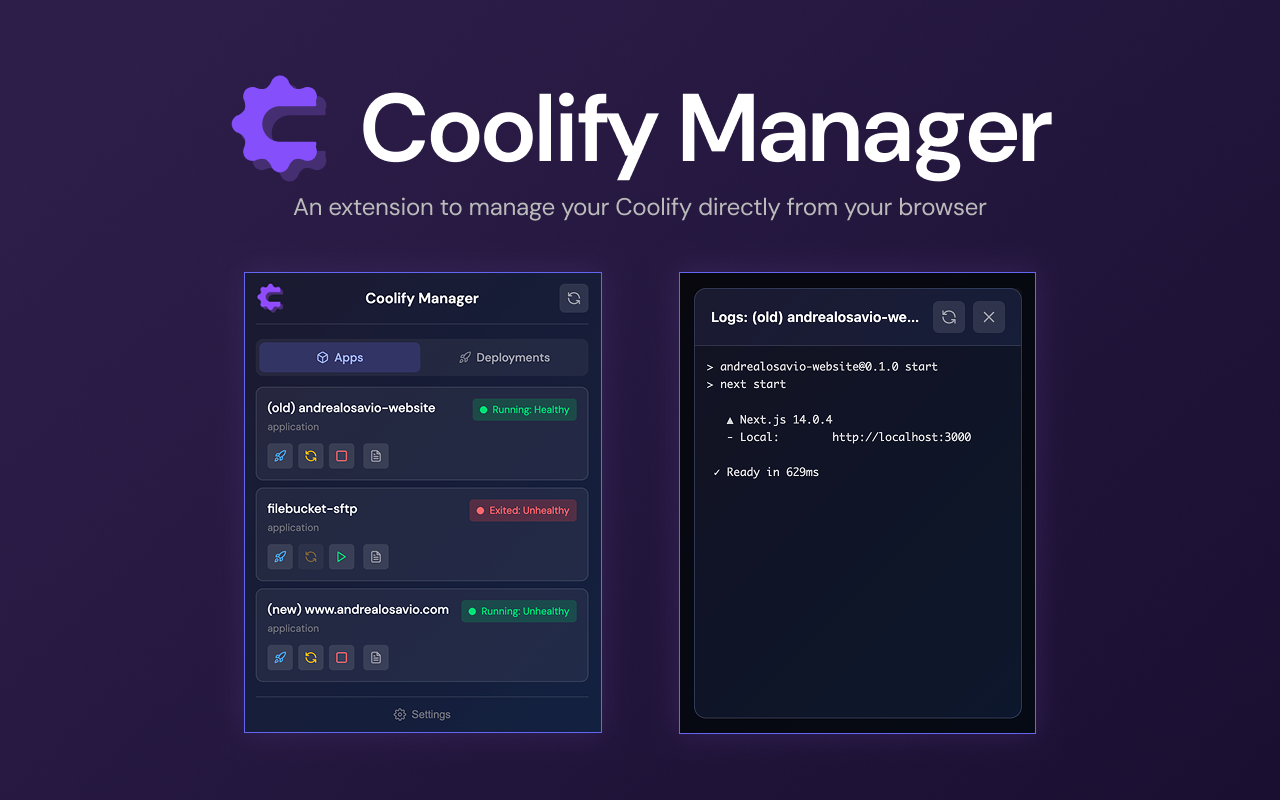
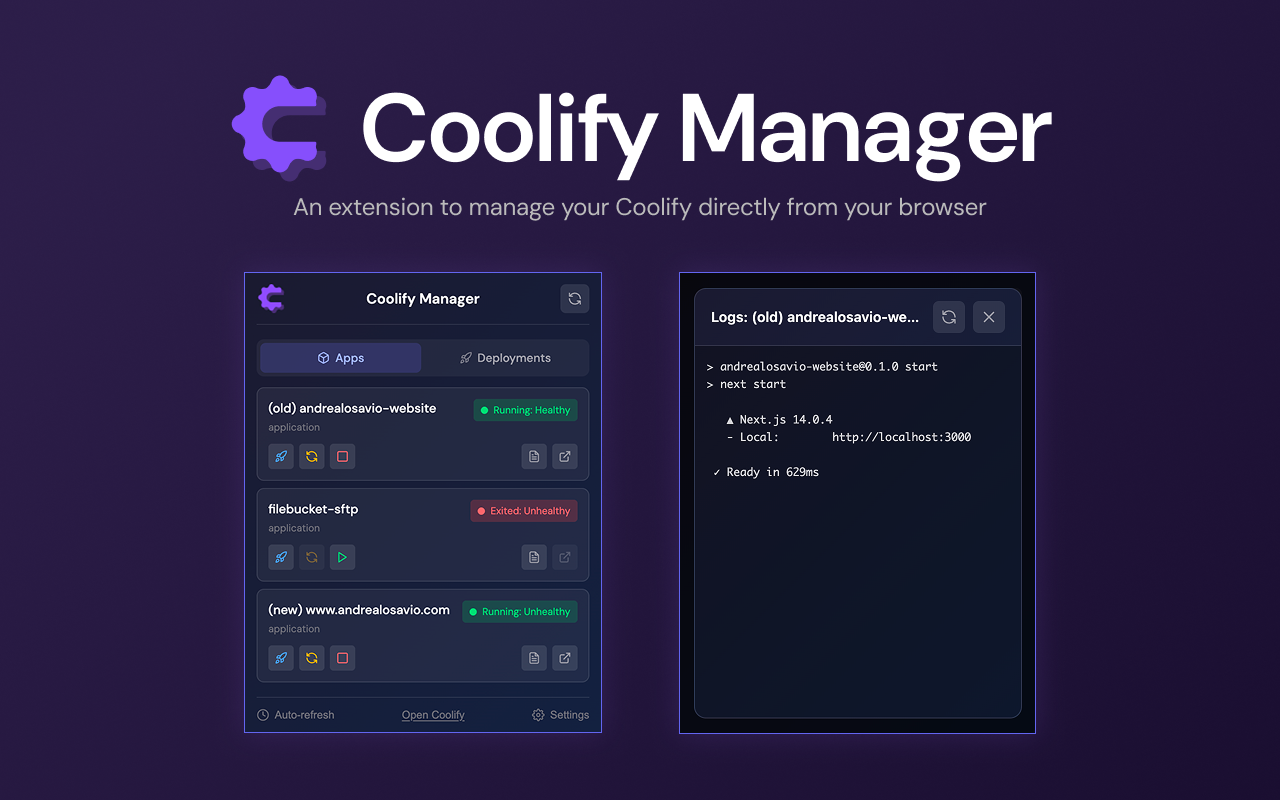
feat: add external link to application feat: add 'open coolify' link to footer feat: add autorefresh every 10s to footer

diff --git a/popup/popup.js b/popup/popup.js
@@ -31,6 +31,11 @@ const icons = {
     <line x1="18" y1="6" x2="6" y2="18"/>
     <line x1="6" y1="6" x2="18" y2="18"/>
   </svg>`,
+  externalLink: `<svg class="icon" width="14" height="14" viewBox="0 0 24 24" fill="none" stroke="currentColor" stroke-width="2" stroke-linecap="round" stroke-linejoin="round">
+    <path d="M18 13v6a2 2 0 01-2 2H5a2 2 0 01-2-2V8a2 2 0 012-2h6"/>
+    <polyline points="15 3 21 3 21 9"/>
+    <line x1="10" y1="14" x2="21" y2="3"/>
+  </svg>`,
 };
 
 const states = {
@@ -49,7 +54,9 @@ const elements = {
   refreshBtn: document.getElementById("refresh-btn"),
   openOptionsBtn: document.getElementById("open-options"),
   retryBtn: document.getElementById("retry-btn"),
+  autoRefreshBtn: document.getElementById("auto-refresh-btn"),
   settingsBtn: document.getElementById("settings-btn"),
+  openCoolifyBtn: document.getElementById("open-coolify-btn"),
   errorMessage: document.getElementById("error-message"),
   loadingText: document.getElementById("loading-text"),
   applications: document.getElementById("applications"),
@@ -67,6 +74,9 @@ const elements = {
 
 let currentLogsApp = null;
 let currentTab = "apps";
+let serverUrl = "";
+let autoRefreshInterval = null;
+let autoRefreshEnabled = false;
 
 function showState(stateName) {
   Object.entries(states).forEach(([name, element]) => {
@@ -84,9 +94,40 @@ function openOptions() {
   chrome.runtime.openOptionsPage();
 }
 
+function openCoolify() {
+  if (!serverUrl) return;
+  chrome.tabs.create({ url: serverUrl });
+}
+
 async function isConfigured() {
   const config = await chrome.storage.sync.get(["serverUrl", "apiToken"]);
+  if (config.serverUrl) {
+    serverUrl = config.serverUrl.replace(/\/$/, "");
+  }
   return !!(config.serverUrl && config.apiToken);
+}
+
+function openAppSite(fqdn) {
+  if (!fqdn) return;
+  const firstUrl = fqdn.split(",")[0].trim();
+  if (!firstUrl) return;
+  const url = firstUrl.startsWith("http") ? firstUrl : `https://${firstUrl}`;
+  chrome.tabs.create({ url });
+}
+
+function toggleAutoRefresh() {
+  autoRefreshEnabled = !autoRefreshEnabled;
+
+  if (autoRefreshEnabled) {
+    elements.autoRefreshBtn.classList.add("active");
+    autoRefreshInterval = setInterval(refreshCurrentTab, 10000);
+  } else {
+    elements.autoRefreshBtn.classList.remove("active");
+    if (autoRefreshInterval) {
+      clearInterval(autoRefreshInterval);
+      autoRefreshInterval = null;
+    }
+  }
 }
 
 function switchTab(tab) {
@@ -177,12 +218,19 @@ function renderApplications(apps) {
     btn.addEventListener("click", handleAction);
   });
 
-  elements.applications.querySelectorAll(".logs-btn").forEach((btn) => {
+  elements.applications.querySelectorAll(".app-name-link").forEach((link) => {
+    link.addEventListener("click", handleShowAppDetails);
+  });
+
+  elements.applications.querySelectorAll(".open-logs-btn").forEach((btn) => {
     btn.addEventListener("click", handleShowLogs);
   });
 
-  elements.applications.querySelectorAll(".app-name-link").forEach((link) => {
-    link.addEventListener("click", handleShowAppDetails);
+  elements.applications.querySelectorAll(".open-site-btn").forEach((btn) => {
+    btn.addEventListener("click", (e) => {
+      e.stopPropagation();
+      openAppSite(btn.dataset.fqdn);
+    });
   });
 }
 
@@ -208,6 +256,7 @@ function createAppCard(app) {
   const isRunning = status.includes("running");
   const deployLabel = isRunning ? "Redeploy" : "Deploy";
   const displayStatus = formatStatus(status);
+  const hasFqdn = app.fqdn && app.fqdn.trim();
 
   return `
     <div class="app-card" data-uuid="${app.uuid}" data-name="${app.name}">
@@ -222,28 +271,33 @@ function createAppCard(app) {
         </div>
       </div>
       <div class="app-actions">
-        <button class="action-btn deploy" data-action="deploy" data-uuid="${app.uuid}" data-name="${app.name}" title="${deployLabel}">
-          ${icons.rocket}
-        </button>
-        <button class="action-btn restart" data-action="restart" data-uuid="${app.uuid}" data-name="${app.name}" title="Restart" ${!isRunning ? "disabled" : ""}>
-          ${icons.refreshCw}
-        </button>
-        ${
-          isRunning
-            ? `
-          <button class="action-btn stop" data-action="stop" data-uuid="${app.uuid}" data-name="${app.name}" title="Stop">
-            ${icons.square}
+        <div class="actions-left">
+          <button class="action-btn deploy" data-action="deploy" data-uuid="${app.uuid}" data-name="${app.name}" title="${deployLabel}">
+            ${icons.rocket}
           </button>
-        `
-            : `
-          <button class="action-btn start" data-action="start" data-uuid="${app.uuid}" data-name="${app.name}" title="Start">
-            ${icons.play}
+          <button class="action-btn restart" data-action="restart" data-uuid="${app.uuid}" data-name="${app.name}" title="Restart" ${!isRunning ? "disabled" : ""}>
+            ${icons.refreshCw}
           </button>
-        `
-        }
-        <button class="logs-btn" data-uuid="${app.uuid}" data-name="${app.name}" title="View Logs">
-          ${icons.fileText}
-        </button>
+          ${
+            isRunning
+              ? `
+            <button class="action-btn stop" data-action="stop" data-uuid="${app.uuid}" data-name="${app.name}" title="Stop">
+              ${icons.square}
+            </button>
+          `
+              : `
+            <button class="action-btn start" data-action="start" data-uuid="${app.uuid}" data-name="${app.name}" title="Start">
+              ${icons.play}
+            </button>
+          `
+          }
+        </div>
+        <div class="actions-right">
+          <button class="open-logs-btn util-btn" data-uuid="${app.uuid}" data-name="${app.name}" title="View Logs">
+            ${icons.fileText}
+          </button>
+          ${hasFqdn ? `<button class="util-btn open-site-btn" data-fqdn="${escapeHtml(app.fqdn)}" title="Open Website" ${!isRunning ? "disabled" : ""}>${icons.externalLink}</button>` : ""}
+        </div>
       </div>
     </div>
   `;
@@ -658,7 +712,9 @@ async function init() {
   elements.refreshBtn.addEventListener("click", refreshCurrentTab);
   elements.openOptionsBtn.addEventListener("click", openOptions);
   elements.retryBtn.addEventListener("click", refreshCurrentTab);
+  elements.autoRefreshBtn.addEventListener("click", toggleAutoRefresh);
   elements.settingsBtn.addEventListener("click", openOptions);
+  elements.openCoolifyBtn.addEventListener("click", openCoolify);
   elements.logsClose.addEventListener("click", closeLogs);
   elements.logsRefresh.addEventListener("click", refreshLogs);
   elements.detailsClose.addEventListener("click", closeDetails);
@@ -683,8 +739,10 @@ async function init() {
 
   if (await isConfigured()) {
     elements.tabsContainer.classList.remove("hidden");
+    elements.openCoolifyBtn.disabled = !serverUrl;
     loadApplications();
   } else {
+    elements.openCoolifyBtn.disabled = true;
     showState("notConfigured");
   }
 }

diff --git a/popup/popup.html b/popup/popup.html
@@ -44,19 +44,45 @@
       <!-- Tabs Navigation -->
       <div id="tabs-container" class="tabs-container hidden">
         <button class="tab-btn active" data-tab="apps">
-          <svg class="icon" width="14" height="14" viewBox="0 0 24 24" fill="none" stroke="currentColor" stroke-width="2" stroke-linecap="round" stroke-linejoin="round">
-            <path d="M21 16V8a2 2 0 00-1-1.73l-7-4a2 2 0 00-2 0l-7 4A2 2 0 003 8v8a2 2 0 001 1.73l7 4a2 2 0 002 0l7-4A2 2 0 0021 16z"/>
-            <polyline points="3.27 6.96 12 12.01 20.73 6.96"/>
-            <line x1="12" y1="22.08" x2="12" y2="12"/>
+          <svg
+            class="icon"
+            width="14"
+            height="14"
+            viewBox="0 0 24 24"
+            fill="none"
+            stroke="currentColor"
+            stroke-width="2"
+            stroke-linecap="round"
+            stroke-linejoin="round"
+          >
+            <path
+              d="M21 16V8a2 2 0 00-1-1.73l-7-4a2 2 0 00-2 0l-7 4A2 2 0 003 8v8a2 2 0 001 1.73l7 4a2 2 0 002 0l7-4A2 2 0 0021 16z"
+            />
+            <polyline points="3.27 6.96 12 12.01 20.73 6.96" />
+            <line x1="12" y1="22.08" x2="12" y2="12" />
           </svg>
           Apps
         </button>
         <button class="tab-btn" data-tab="deployments">
-          <svg class="icon" width="14" height="14" viewBox="0 0 24 24" fill="none" stroke="currentColor" stroke-width="2" stroke-linecap="round" stroke-linejoin="round">
-            <path d="M4.5 16.5c-1.5 1.26-2 5-2 5s3.74-.5 5-2c.71-.84.7-2.13-.09-2.91a2.18 2.18 0 00-2.91-.09z"/>
-            <path d="M12 15l-3-3a22 22 0 012-3.95A12.88 12.88 0 0122 2c0 2.72-.78 7.5-6 11a22.35 22.35 0 01-4 2z"/>
-            <path d="M9 12H4s.55-3.03 2-4c1.62-1.08 5 0 5 0"/>
-            <path d="M12 15v5s3.03-.55 4-2c1.08-1.62 0-5 0-5"/>
+          <svg
+            class="icon"
+            width="14"
+            height="14"
+            viewBox="0 0 24 24"
+            fill="none"
+            stroke="currentColor"
+            stroke-width="2"
+            stroke-linecap="round"
+            stroke-linejoin="round"
+          >
+            <path
+              d="M4.5 16.5c-1.5 1.26-2 5-2 5s3.74-.5 5-2c.71-.84.7-2.13-.09-2.91a2.18 2.18 0 00-2.91-.09z"
+            />
+            <path
+              d="M12 15l-3-3a22 22 0 012-3.95A12.88 12.88 0 0122 2c0 2.72-.78 7.5-6 11a22.35 22.35 0 01-4 2z"
+            />
+            <path d="M9 12H4s.55-3.03 2-4c1.62-1.08 5 0 5 0" />
+            <path d="M12 15v5s3.03-.55 4-2c1.08-1.62 0-5 0-5" />
           </svg>
           Deployments
         </button>
@@ -155,10 +181,14 @@
               stroke-linecap="round"
               stroke-linejoin="round"
             >
-              <path d="M4.5 16.5c-1.5 1.26-2 5-2 5s3.74-.5 5-2c.71-.84.7-2.13-.09-2.91a2.18 2.18 0 00-2.91-.09z"/>
-              <path d="M12 15l-3-3a22 22 0 012-3.95A12.88 12.88 0 0122 2c0 2.72-.78 7.5-6 11a22.35 22.35 0 01-4 2z"/>
-              <path d="M9 12H4s.55-3.03 2-4c1.62-1.08 5 0 5 0"/>
-              <path d="M12 15v5s3.03-.55 4-2c1.08-1.62 0-5 0-5"/>
+              <path
+                d="M4.5 16.5c-1.5 1.26-2 5-2 5s3.74-.5 5-2c.71-.84.7-2.13-.09-2.91a2.18 2.18 0 00-2.91-.09z"
+              />
+              <path
+                d="M12 15l-3-3a22 22 0 012-3.95A12.88 12.88 0 0122 2c0 2.72-.78 7.5-6 11a22.35 22.35 0 01-4 2z"
+              />
+              <path d="M9 12H4s.55-3.03 2-4c1.62-1.08 5 0 5 0" />
+              <path d="M12 15v5s3.03-.55 4-2c1.08-1.62 0-5 0-5" />
             </svg>
           </div>
           <p>No deployments found</p>
@@ -170,6 +200,33 @@
       </div>
 
       <footer>
+        <button
+          id="auto-refresh-btn"
+          class="btn-link"
+          title="Auto-refresh every 10s"
+        >
+          <svg
+            width="14"
+            height="14"
+            viewBox="0 0 24 24"
+            fill="none"
+            stroke="currentColor"
+            stroke-width="2"
+            stroke-linecap="round"
+            stroke-linejoin="round"
+          >
+            <circle cx="12" cy="12" r="10" />
+            <polyline points="12 6 12 12 16 14" />
+          </svg>
+          Auto-refresh
+        </button>
+        <button
+          id="open-coolify-btn"
+          class="btn-link"
+          title="Open Coolify Dashboard"
+        >
+          Open Coolify
+        </button>
         <button id="settings-btn" class="btn-link">
           <svg
             width="14"

diff --git a/popup/popup.css b/popup/popup.css
@@ -354,6 +354,13 @@ h1 {
 
 .app-actions {
   display: flex;
+  justify-content: space-between;
+  gap: 6px;
+}
+
+.actions-left,
+.actions-right {
+  display: flex;
   gap: 6px;
 }
 
@@ -601,7 +608,26 @@ footer {
   padding-top: 12px;
   border-top: 1px solid rgba(255, 255, 255, 0.1);
   display: flex;
-  justify-content: center;
+  justify-content: space-between;
+  gap: 12px;
+}
+
+#auto-refresh-btn.active {
+  color: #6366f1;
+}
+
+#auto-refresh-btn.active svg {
+  animation: spin 2s linear infinite;
+}
+
+#open-coolify-btn {
+  text-decoration: underline;
+  text-underline-offset: 2px;
+}
+
+#open-coolify-btn:disabled {
+  opacity: 0.4;
+  cursor: not-allowed;
 }
 
 .applications::-webkit-scrollbar {
@@ -625,7 +651,7 @@ footer {
   flex-shrink: 0;
 }
 
-.logs-btn {
+.util-btn {
   width: 28px;
   height: 28px;
   display: flex;
@@ -637,12 +663,16 @@ footer {
   color: #a1a1aa;
   cursor: pointer;
   transition: all 0.2s;
-  margin-left: 4px;
 }
 
-.logs-btn:hover {
+.util-btn:hover:not(:disabled) {
   background: rgba(139, 92, 246, 0.2);
   color: #a78bfa;
+}
+
+.util-btn:disabled {
+  opacity: 0.4;
+  cursor: not-allowed;
 }
 
 .modal {

diff --git a/CHANGELOG.md b/CHANGELOG.md
@@ -1,6 +1,9 @@
 ## v1.2.0
 
 - feat: add cancel deployment button
+- feat: add external link to application
+- feat: add 'open coolify' link to footer
+- feat: add autorefresh every 10s to footer
 
 ## v1.1.0
 
